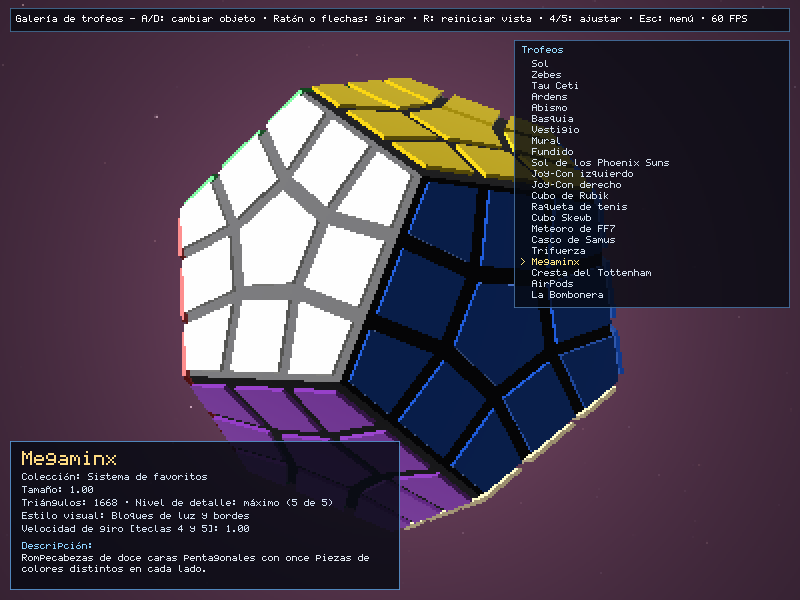
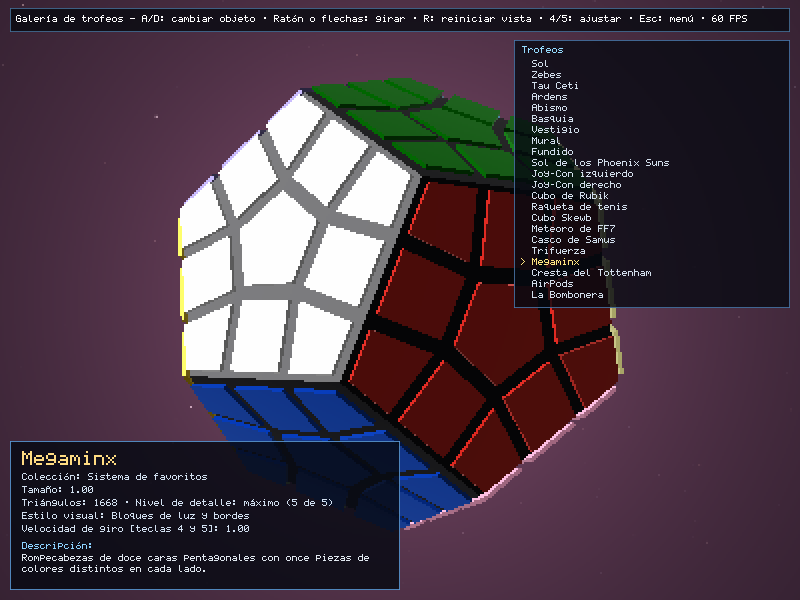
fix(bodies): Corregir los colores del Megaminx con el esquema estándar de 12 colores sin repeticiones.

diff --git a/src/bodies.rs b/src/bodies.rs
@@ -401,45 +401,110 @@ pub fn build_skewb_mesh(detail: usize) -> Mesh {
     mesh
 }
 
-fn megaminx_face_color(dir: Vector3) -> Vector3 {
-    // Paleta de 12 colores con los 5 visibles en refs/megaminx.webp en su posición relativa:
-    // blanco (frente-arriba), rojo (abajo-izq), azul (abajo-der), verde (arriba-izq), amarillo (arriba-der).
-    let palette: [(Vector3, Vector3); 12] = [
-        (Vector3::new(0.0, 0.53, 0.85), WHITE),                              // Frente-arriba: Blanco
-        (Vector3::new(-0.85, -0.53, 0.0), RED),                              // Izq-abajo: Rojo
-        (Vector3::new(0.85, -0.53, 0.0), BLUE),                              // Der-abajo: Azul
-        (Vector3::new(-0.53, 0.85, 0.0), GREEN),                             // Arriba-izq: Verde
-        (Vector3::new(0.53, 0.85, 0.0), YELLOW),                             // Arriba-der: Amarillo
-        (Vector3::new(0.0, -0.53, 0.85), Vector3::new(0.58, 0.24, 0.78)),    // Morado
-        (Vector3::new(0.0, 0.53, -0.85), Vector3::new(0.55, 0.58, 0.62)),    // Gris
-        (Vector3::new(0.0, -0.53, -0.85), Vector3::new(0.95, 0.45, 0.72)),   // Rosa
-        (Vector3::new(-0.85, 0.53, 0.0), Vector3::new(0.25, 0.82, 0.92)),    // Celeste
-        (Vector3::new(0.85, 0.53, 0.0), ORANGE),                             // Naranja
-        (Vector3::new(-0.53, -0.85, 0.0), Vector3::new(0.10, 0.42, 0.20)),   // Verde oscuro
-        (Vector3::new(0.53, -0.85, 0.0), Vector3::new(0.92, 0.84, 0.65)),    // Crema
+/// Paleta de 12 colores del Megaminx (esquema estándar DaYan medido de `refs/megaminx_colores.gif`).
+const MEGAMINX_WHITE: Vector3 = Vector3 { x: 1.000, y: 1.000, z: 1.000 };       // #FFFFFF
+const MEGAMINX_GRAY: Vector3 = Vector3 { x: 0.761, y: 0.757, z: 0.757 };        // #C2C1C1
+const MEGAMINX_PURPLE: Vector3 = Vector3 { x: 95.0 / 255.0, y: 81.0 / 255.0, z: 155.0 / 255.0 };      // #5F519B
+const MEGAMINX_GOLD: Vector3 = Vector3 { x: 0.976, y: 0.765, z: 0.004 };        // #F9C301
+const MEGAMINX_BLUE: Vector3 = Vector3 { x: 0.020, y: 0.231, z: 0.725 };        // #053BB9
+const MEGAMINX_RED: Vector3 = Vector3 { x: 0.859, y: 0.145, z: 0.114 };         // #DB251D
+const MEGAMINX_DARK_GREEN: Vector3 = Vector3 { x: 0.000, y: 0.400, z: 0.000 };  // #006600
+const MEGAMINX_ORANGE: Vector3 = Vector3 { x: 0.984, y: 0.420, z: 0.012 };      // #FB6B03
+const MEGAMINX_LIGHT_BLUE: Vector3 = Vector3 { x: 0.459, y: 0.773, z: 0.945 };  // #75C5F1
+const MEGAMINX_PALE_YELLOW: Vector3 = Vector3 { x: 1.000, y: 0.984, z: 0.616 }; // #FFFB9D
+const MEGAMINX_PINK: Vector3 = Vector3 { x: 0.945, y: 0.608, z: 0.749 };        // #F19BBF
+const MEGAMINX_LIGHT_GREEN: Vector3 = Vector3 { x: 0.725, y: 0.859, z: 0.490 }; // #B9DB7D
+
+fn megaminx_face_colors(faces: &[[Vector3; 5]]) -> [Vector3; 12] {
+    assert_eq!(faces.len(), 12);
+    let centers: [Vector3; 12] = std::array::from_fn(|i| {
+        ((faces[i][0] + faces[i][1] + faces[i][2] + faces[i][3] + faces[i][4]) * 0.2).normalize()
+    });
+
+    // 1. Cara blanca al frente-arriba; gris exactamente opuesta.
+    let front_top = Vector3::new(0.0, 0.53, 0.85).normalize();
+    let white_idx = (0..12)
+        .max_by(|&a, &b| centers[a].dot(front_top).total_cmp(&centers[b].dot(front_top)))
+        .unwrap();
+    let gray_idx = (0..12)
+        .min_by(|&a, &b| centers[a].dot(centers[white_idx]).total_cmp(&centers[b].dot(centers[white_idx])))
+        .unwrap();
+
+    // 2. Base ortonormal en el plano tangente de la cara blanca para ordenar sus 5 vecinas en sentido horario.
+    let w_n = centers[white_idx];
+    let ref_up = if w_n.y.abs() < 0.95 {
+        Vector3::new(0.0, 1.0, 0.0)
+    } else {
+        Vector3::new(0.0, 0.0, -1.0)
+    };
+    let u_axis = ref_up.cross(w_n).normalize();
+    let v_axis = w_n.cross(u_axis).normalize();
+
+    let mut white_ring: Vec<usize> = (0..12)
+        .filter(|&i| i != white_idx && centers[i].dot(w_n) > 0.2)
+        .collect();
+    assert_eq!(white_ring.len(), 5);
+    // Orden horario visto desde fuera: Morado (arr-izq), Dorado (arr-der), Azul (der), Rojo (abajo), Verde oscuro (izq).
+    white_ring.sort_by(|&a, &b| {
+        let ang_a = (-centers[a].dot(u_axis)).atan2(centers[a].dot(v_axis));
+        let ang_b = (-centers[b].dot(u_axis)).atan2(centers[b].dot(v_axis));
+        ang_a.total_cmp(&ang_b)
+    });
+    // Rotar para que el primer vecino (Morado) sea el de arriba-izquierda (u < 0, v > 0).
+    let start_pos = white_ring
+        .iter()
+        .position(|&i| centers[i].dot(u_axis) < 0.0 && centers[i].dot(v_axis) > 0.0)
+        .unwrap_or(0);
+    white_ring.rotate_left(start_pos);
+
+    let mut colors = [MEGAMINX_WHITE; 12];
+    colors[white_idx] = MEGAMINX_WHITE;
+    colors[gray_idx] = MEGAMINX_GRAY;
+
+    let white_ring_colors = [
+        MEGAMINX_PURPLE,
+        MEGAMINX_GOLD,
+        MEGAMINX_BLUE,
+        MEGAMINX_RED,
+        MEGAMINX_DARK_GREEN,
     ];
-    let n = dir.normalize();
-    let mut best_idx = 0;
-    let mut best_dot = -2.0_f32;
-    for (i, (ref_dir, _)) in palette.iter().enumerate() {
-        let d = n.dot(ref_dir.normalize());
-        if d > best_dot {
-            best_dot = d;
-            best_idx = i;
-        }
+    for (k, &f_idx) in white_ring.iter().enumerate() {
+        colors[f_idx] = white_ring_colors[k];
     }
-    palette[best_idx].1
+
+    // 3. Cada vecina de Gris está entre dos vecinas consecutivas de Blanco.
+    let gap_colors = [
+        MEGAMINX_ORANGE,       // entre Morado y Dorado
+        MEGAMINX_LIGHT_GREEN,  // entre Dorado y Azul
+        MEGAMINX_PINK,         // entre Azul y Rojo
+        MEGAMINX_PALE_YELLOW,  // entre Rojo y Verde oscuro
+        MEGAMINX_LIGHT_BLUE,   // entre Verde oscuro y Morado
+    ];
+    let gray_ring: Vec<usize> = (0..12)
+        .filter(|&i| i != gray_idx && centers[i].dot(centers[gray_idx]) > 0.2)
+        .collect();
+    assert_eq!(gray_ring.len(), 5);
+    for k in 0..5 {
+        let a = white_ring[k];
+        let b = white_ring[(k + 1) % 5];
+        let gap_idx = *gray_ring
+            .iter()
+            .find(|&&g| centers[g].dot(centers[a]) > 0.2 && centers[g].dot(centers[b]) > 0.2)
+            .expect("Cada par consecutivo del anillo blanco comparte una vecina del anillo gris");
+        colors[gap_idx] = gap_colors[k];
+    }
+    colors
 }
 
 /// Construye el Megaminx sobre un dodecaedro regular de circunradio 1 con 11
 /// pegatinas por cara (pentágono central, 5 cuadriláteros de arista y 5 cometas de esquina).
 pub fn build_megaminx_mesh(detail: usize) -> Mesh {
     let faces = dodecahedron_faces(1.0);
+    let face_colors = megaminx_face_colors(&faces);
     if detail == 0 {
         let mut mesh = Mesh::new();
-        for face in faces {
-            let center = (face[0] + face[1] + face[2] + face[3] + face[4]) * 0.2;
-            let color = megaminx_face_color(center);
+        for (f_idx, face) in faces.into_iter().enumerate() {
+            let color = face_colors[f_idx];
             mesh.merge(&flat_polygon_mesh(&face, color));
         }
         return mesh;
@@ -449,9 +514,9 @@ pub fn build_megaminx_mesh(detail: usize) -> Mesh {
     mesh.set_color(BLACK);
     let thickness = if detail >= 2 { 0.015 } else { 0.0 };
 
-    for face in faces {
+    for (f_idx, face) in faces.into_iter().enumerate() {
         let c = (face[0] + face[1] + face[2] + face[3] + face[4]) * 0.2;
-        let color = megaminx_face_color(c);
+        let color = face_colors[f_idx];
         let p: [Vector3; 5] = std::array::from_fn(|i| c + (face[i] - c) * 0.38);
         let ea: [Vector3; 5] =
             std::array::from_fn(|i| face[i] + (face[(i + 1) % 5] - face[i]) * 0.31);
@@ -1716,6 +1781,66 @@ mod tests {
         for m in [&m0, &m1, &m2] {
             assert!(m.indices.iter().all(|&idx| idx < m.positions.len()));
         }
+    }
+
+    #[test]
+    fn megaminx_has_12_distinct_colors_and_uniform_stickers_per_face() {
+        let faces = dodecahedron_faces(1.0);
+        let colors = megaminx_face_colors(&faces);
+        let centers: Vec<Vector3> = faces
+            .iter()
+            .map(|f| ((f[0] + f[1] + f[2] + f[3] + f[4]) * 0.2).normalize())
+            .collect();
+
+        // 12 colores distintos
+        for i in 0..12 {
+            for j in (i + 1)..12 {
+                assert!(
+                    (colors[i] - colors[j]).length() > 0.05,
+                    "Caras {i} y {j} repiten color: {:?}",
+                    colors[i]
+                );
+            }
+        }
+        // Ninguna cara comparte color con una vecina
+        for i in 0..12 {
+            for j in 0..12 {
+                if i != j && centers[i].dot(centers[j]) > 0.2 {
+                    assert!(
+                        (colors[i] - colors[j]).length() > 0.05,
+                        "Caras vecinas {i} y {j} tienen el mismo color"
+                    );
+                }
+            }
+        }
+        // Cada cara en detalle 2 tiene un único color en todas sus pegatinas (excluyendo negro del cuerpo)
+        let m2 = build_megaminx_mesh(2);
+        let mut seen_per_face = [None::<Vector3>; 12];
+        for tri in m2.indices.as_chunks::<3>().0 {
+            let c0 = m2.colors[tri[0]];
+            if (c0 - BLACK).length() < 0.05 {
+                continue; // cuerpo negro
+            }
+            let pos = (m2.positions[tri[0]] + m2.positions[tri[1]] + m2.positions[tri[2]]) * (1.0 / 3.0);
+            let dir = pos.normalize();
+            let f_idx = (0..12)
+                .max_by(|&a, &b| dir.dot(centers[a]).total_cmp(&dir.dot(centers[b])))
+                .unwrap();
+            if let Some(prev) = seen_per_face[f_idx] {
+                assert!(
+                    (prev - c0).length() < 1e-4,
+                    "Cara {f_idx} mezcla colores: {prev:?} vs {c0:?}"
+                );
+            } else {
+                seen_per_face[f_idx] = Some(c0);
+                assert!(
+                    (colors[f_idx] - c0).length() < 1e-4,
+                    "f_idx={f_idx} expected={:?} got={c0:?} pos={pos:?}",
+                    colors[f_idx]
+                );
+            }
+        }
+        assert!(seen_per_face.iter().all(|c| c.is_some()));
     }
 
     #[test]
